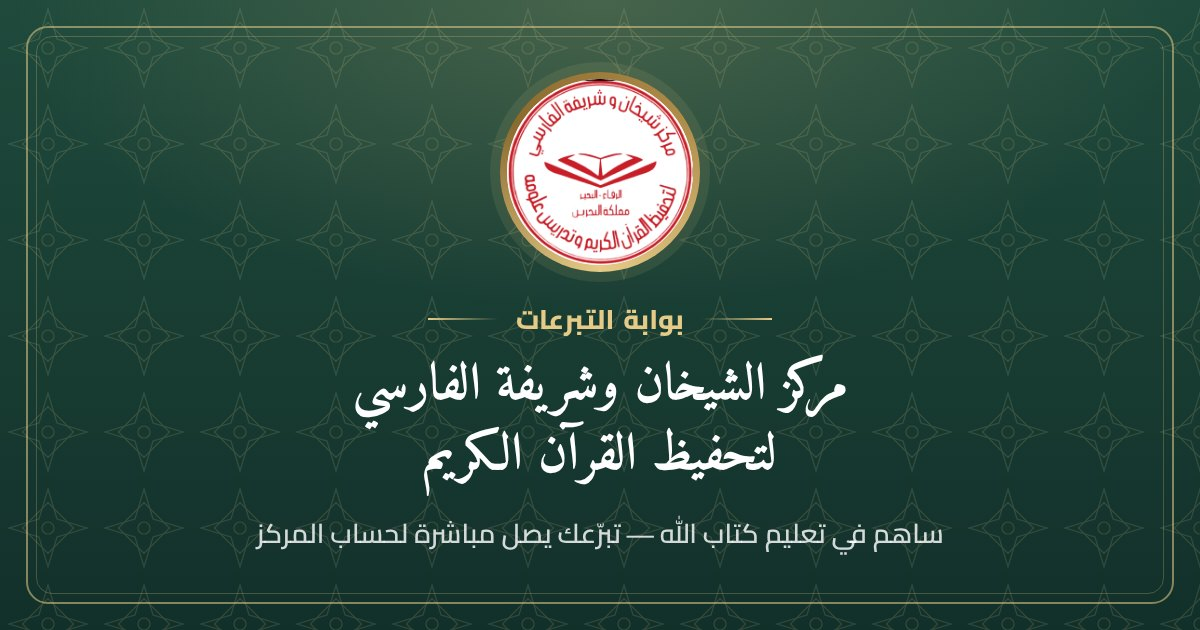
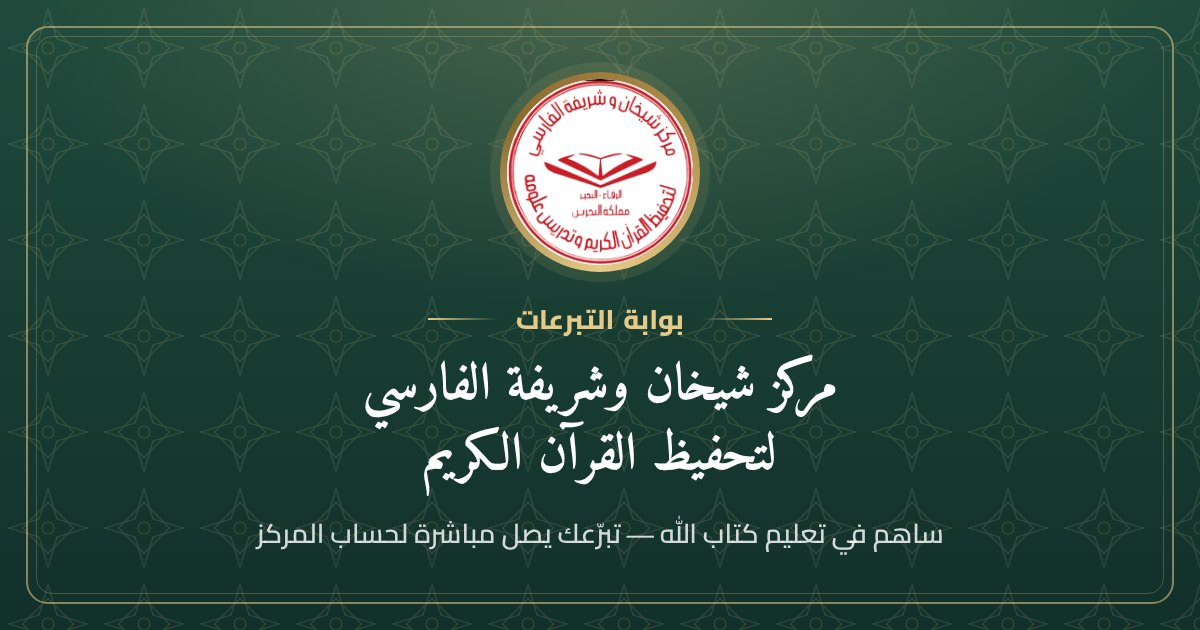
Correct center name to مركز شيخان
Claude-Session: https://claude.ai/code/session_018ZVYsGMFkkDPoB2NtxuCWs

Changed region(s): [[0.2775, 0.5429, 0.7092, 0.6937]]

diff --git a/index.html b/index.html
@@ -3,19 +3,19 @@
 <head>
 <meta charset="UTF-8">
 <meta name="viewport" content="width=device-width, initial-scale=1.0">
-<title>بوابة التبرعات — مركز الشيخان وشريفة الفارسي لتحفيظ القرآن الكريم</title>
-<meta name="description" content="ساهم في تعليم كتاب الله: تبرّع لمركز الشيخان وشريفة الفارسي لتحفيظ القرآن الكريم بتحويل بنكي مباشر، ويُوجَّه تبرّعك للمجال الذي تختاره.">
+<title>بوابة التبرعات — مركز شيخان وشريفة الفارسي لتحفيظ القرآن الكريم</title>
+<meta name="description" content="ساهم في تعليم كتاب الله: تبرّع لمركز شيخان وشريفة الفارسي لتحفيظ القرآن الكريم بتحويل بنكي مباشر، ويُوجَّه تبرّعك للمجال الذي تختاره.">
 <meta name="theme-color" content="#17392E">
 <meta property="og:type" content="website">
 <meta property="og:locale" content="ar_BH">
 <meta property="og:site_name" content="بوابة التبرعات">
-<meta property="og:title" content="بوابة التبرعات — مركز الشيخان وشريفة الفارسي لتحفيظ القرآن الكريم">
+<meta property="og:title" content="بوابة التبرعات — مركز شيخان وشريفة الفارسي لتحفيظ القرآن الكريم">
 <meta property="og:description" content="ساهم في تعليم كتاب الله — تبرّعك يصل مباشرة لحساب المركز ويُوجَّه للمجال الذي تختاره.">
 <meta property="og:url" content="https://lsy303.github.io/quran-center-donations/">
 <meta property="og:image" content="https://lsy303.github.io/quran-center-donations/og-image.jpg">
 <meta property="og:image:width" content="1200">
 <meta property="og:image:height" content="630">
-<meta property="og:image:alt" content="مركز الشيخان وشريفة الفارسي لتحفيظ القرآن الكريم — بوابة التبرعات">
+<meta property="og:image:alt" content="مركز شيخان وشريفة الفارسي لتحفيظ القرآن الكريم — بوابة التبرعات">
 <meta name="twitter:card" content="summary_large_image">
 <meta name="twitter:image" content="https://lsy303.github.io/quran-center-donations/og-image.jpg">
 <link rel="icon" type="image/png" href="og-icon.png">
@@ -777,7 +777,7 @@ function catIcon(cat){
 }
 
 const DEFAULT_IDENTITY = {
-  centerName: 'مركز الشيخان وشريفة الفارسي لتحفيظ القرآن الكريم',
+  centerName: 'مركز شيخان وشريفة الفارسي لتحفيظ القرآن الكريم',
   logo: '',
   licenseNumber: ''
 };
